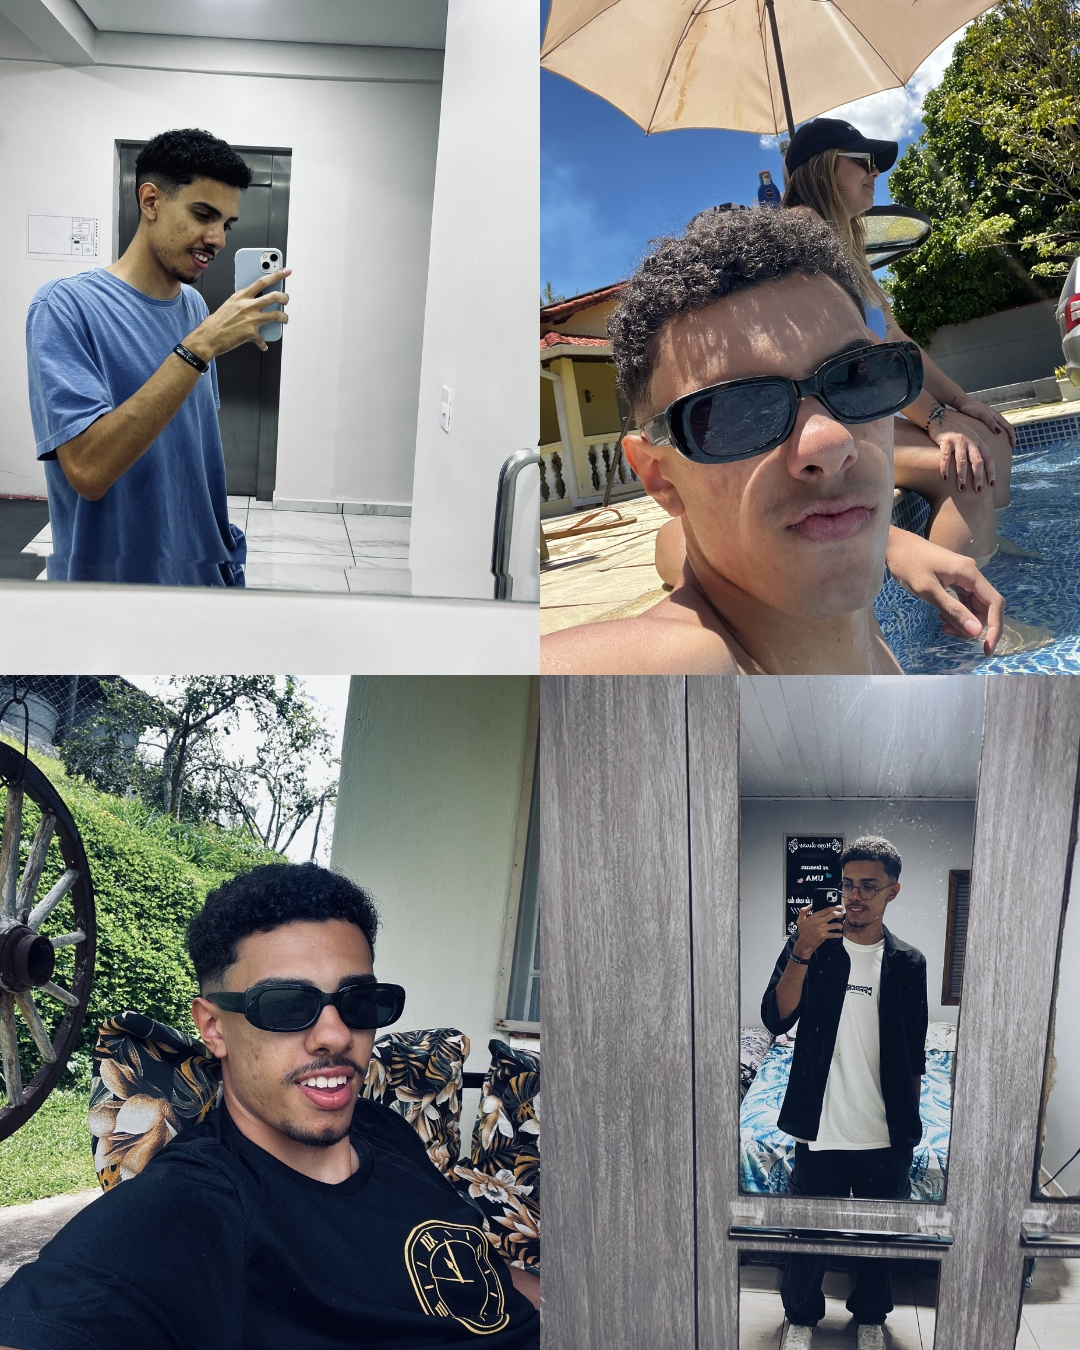
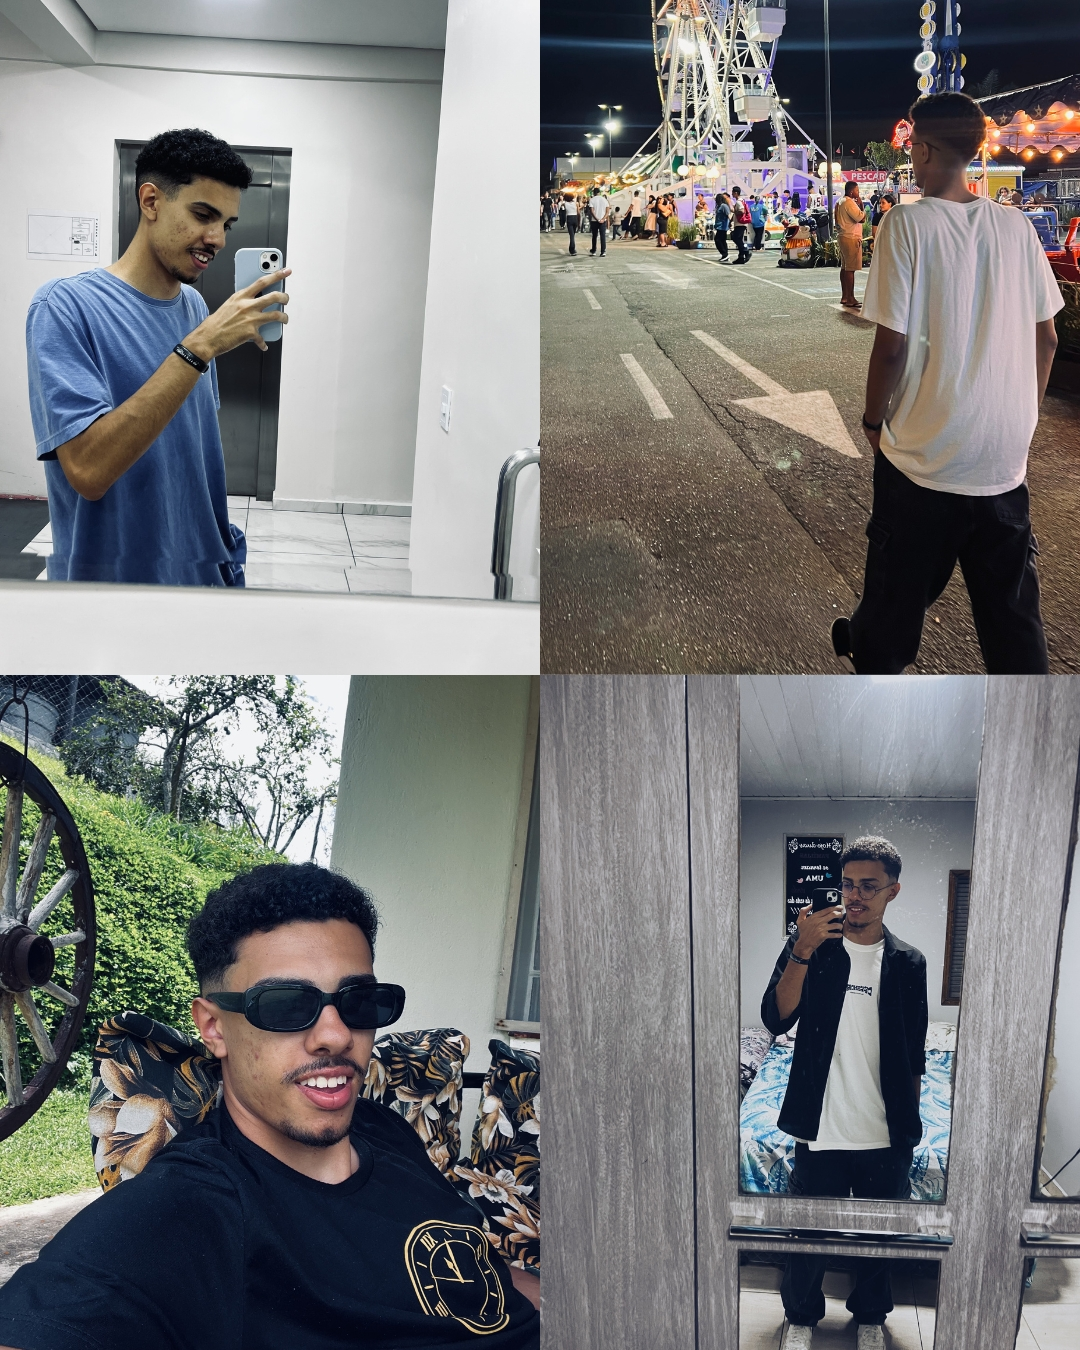
Atualizações 30-03

Changed region(s): [[0.4889, 0.0, 1.0, 0.4978]]

diff --git a/index.html b/index.html
@@ -4,15 +4,15 @@
     <meta charset="UTF-8">
     <meta name="viewport" content="width=device-width, initial-scale=1.0">
 
-    <link rel="preconnect" href="https://fonts.googleapis.com" />
-    <link rel="preconnect" href="https://fonts.gstatic.com" crossorigin />
-    <link href="https://fonts.googleapis.com/css2?family=Montserrat:ital,wght@0,100..900;1,100..900&display=swap" rel="stylesheet">
-    <link href="https://fonts.googleapis.com/css2?family=Space+Grotesk:wght@300..700&display=swap" rel="stylesheet"> 
+    <link rel="preconnect" href="https://fonts.googleapis.com" /> <!-- Receber Google Fonts -->
+    <link rel="preconnect" href="https://fonts.gstatic.com" crossorigin /> <!-- Receber Google Fonts -->
+    <link href="https://fonts.googleapis.com/css2?family=Montserrat:ital,wght@0,100..900;1,100..900&display=swap" rel="stylesheet"> <!-- Fonte Montserrat -->
+    <link href="https://fonts.googleapis.com/css2?family=Space+Grotesk:wght@300..700&display=swap" rel="stylesheet"> <!-- Fonte Space Grotesk -->
 
-    <link rel="stylesheet" href="https://cdnjs.cloudflare.com/ajax/libs/font-awesome/6.5.1/css/all.min.css" />
-    <link rel="stylesheet" type='text/css' href="https://cdn.jsdelivr.net/gh/devicons/devicon@latest/devicon.min.css" />
+    <link rel="stylesheet" href="https://cdnjs.cloudflare.com/ajax/libs/font-awesome/6.5.1/css/all.min.css" /> <!-- Icons -->
+    <link rel="stylesheet" type='text/css' href="https://cdn.jsdelivr.net/gh/devicons/devicon@latest/devicon.min.css" /> <!-- Icons -->
 
-    <script src="https://cdn.jsdelivr.net/particles.js/2.0.0/particles.min.js"></script>
+    <script src="https://cdn.jsdelivr.net/particles.js/2.0.0/particles.min.js"></script> <!-- Particles JS -->
 
     <link rel="stylesheet" href="styles/style.css">
 
@@ -21,6 +21,7 @@
 <body>
     <div id="particles-js"></div>
 
+    <!-- Header -->
     <header>
         <nav>
             <h1>Console.log(Kauã)</h1>
@@ -35,7 +36,9 @@
             <p>Hello World, estão prontos para conhecer mais sobre mim?</p>
         </div>
     </header>
+    <!-- Fim Header -->
 
+    <!-- Tela Inicial -->
     <section id="home">
         <div class="apresentation">
             <div class="layout">
@@ -57,14 +60,16 @@
             </div>
         </div>
     </section>
+    <!-- Fim Tela Inicial -->
 
+    <!-- Tópicos do Site -->
     <section id="topics">
         <h1>Tópicos Importantes</h1>
         <div class="cards">
             <div class="card-content">
                 <a href="#">
                     <div class="image-card">
-                        <img src="assets/foto-topicos.jpg" alt="Minha foto">
+                        <img src="assets/foto-sobre mim.jpg" alt="Minha foto">
                     </div>
                     <h2>Sobre mim</h2>
                 </a>
@@ -72,7 +77,7 @@
             <div class="card-content">
                 <a href="#">
                     <div class="image-card">
-                        <img src="assets/foto-topicos.jpg" alt="Minha foto">
+                        <img src="assets/foto-cultura.JPG" alt="Foto Projeto Sola">
                     </div>
                     <h2>Cultura</h2>
                 </a>
@@ -80,13 +85,78 @@
             <div class="card-content">
                 <a href="#">
                     <div class="image-card">
-                        <img src="assets/foto-topicos.jpg" alt="Minha foto">
+                        <img src="assets/foto-esportes.jpg" alt="Foto esportes">
                     </div>
                     <h2>Esportes</h2>
                 </a>
             </div>
         </div>
     </section>
+    <!-- Fim Tópicos do Site -->
+
+    <section id="pictures">
+        <div class="galeria">
+            <div class="linha-galeria">
+                <div class="img-galeria">
+                    <img src="/assets/galeria-1.jpg" alt="Fotos Galeria">
+                </div>
+                <div class="img-galeria">
+                    <img src="/assets/galeria-2.jpg" alt="Fotos Galeria">
+                </div>
+                <div class="img-galeria">
+                    <img src="/assets/galeria-3.jpg" alt="Fotos Galeria">
+                </div>
+                <div class="img-galeria">
+                    <img src="/assets/galeria-4.jpg" alt="Fotos Galeria">
+                </div>
+                <div class="img-galeria">
+                    <img src="/assets/galeria-5.jpg" alt="Fotos Galeria">
+                </div>
+                <div class="img-galeria">
+                    <img src="/assets/galeria-6.jpg" alt="Fotos Galeria">
+                </div>
+            </div>
+
+            <div class="linha-galeria">
+                <div class="img-galeria">
+                    <img src="/assets/galeria-7.jpg" alt="Fotos Galeria">
+                </div>
+                <div class="img-galeria">
+                    <img src="/assets/galeria-8.jpg" alt="Fotos Galeria">
+                </div>
+                <div class="img-galeria">
+                    <img src="/assets/galeria-9.jpg" alt="Fotos Galeria">
+                </div>
+                <div class="img-galeria">
+                    <img src="/assets/galeria-10.jpg" alt="Fotos Galeria">
+                </div>
+                <div class="img-galeria">
+                    <img src="/assets/galeria-11.jpg" alt="Fotos Galeria">
+                </div>
+                <div class="img-galeria">
+                    <img src="/assets/galeria-12.jpg" alt="Fotos Galeria">
+                </div>
+            </div>
+    </section>
+
+    <footer>
+        <div class="container-footer">
+            <div class="footer-content">
+                <div class="footer-info">
+                    <h3>Console.log(Kauã)</h3>
+                    <p>Conhecendo mais sobre Kauã Henrique!</p>
+                    <div class="social-links">
+                        <a href="https://github.com/devKauaHenrique" target="blank"><i class="fab fa-github"></i></a>
+                        <a href="https://www.linkedin.com/in/kau%C3%A3-henrique-78259a259/" target="blank"><i class="fab fa-linkedin"></i></a>
+                        <a href="https://www.instagram.com/kaua.dev?igsh=MXB5NGlqczhnNXZ5cA==" target="blank"><i class="fab fa-instagram"></i></a>
+                    </div>
+                </div>
+            </div>
+            <div class="footer-bottom">
+                <p>&copy; 2026 Kauã Henrique. Todos os direitos reservados.</p>
+            </div>
+        </div>
+    </footer>
 
     <script src="scripts/particles.js"></script>
 </body>

diff --git a/styles/style.css b/styles/style.css
@@ -1,3 +1,4 @@
+/* Configs Padrões */
 *{
     box-sizing: border-box;
     padding: 0;
@@ -6,6 +7,7 @@
     list-style: none;
 }
 
+/* Animação na transição de tela */
 html{
     scroll-behavior: smooth;
 }
@@ -13,6 +15,7 @@ html{
 /* Cores: */
 /* Azul 1 -> #000080 */
 /* Azul 2 -> #1d0eb1 */
+/* Branco -> #fff */
 
 :root{
     --darkness-blue: #000080;
@@ -68,7 +71,7 @@ nav li a{
     color: var(--darkness-blue);
     font-family: "Montserrat", sans-serif;
     text-align: center;
-    font-weight: bold;
+    font-weight: 600;
     padding: 0.5rem;
     height: 30px;
 }
@@ -196,15 +199,16 @@ section#topics h1{
 
 .cards{
     display: flex;
+    justify-content: center;
+    align-items: flex-start;
     gap: 4rem;
 }
 
 .card-content{
     display: flex;
-    flex: wrap;
     flex-direction: column;
     align-items: center;
-    max-width: 300px;
+    width: 300px;
     background-color: var(--darkness-blue);
     color: var(--white);
     border-radius: 10px;
@@ -219,7 +223,7 @@ section#topics h1{
 .card-content h2{
     color: var(--white);
     text-align: center;
-    padding: 12px;
+    padding: 1rem;
     font-family: "Montserrat", sans-serif;
     font-optical-sizing: auto;
     font-weight: normal;
@@ -227,11 +231,17 @@ section#topics h1{
 }
 
 .image-card{
+    width: 100%;
+    height: 400px;
+    aspect-ratio: 1 / 1;
     overflow: hidden;
 }
 
 .image-card img{
     width: 100%;
+    height: 100%;
+    object-fit: cover;
+    object-position: center;
     border-radius: 10px 10px 0 0;
     transition: transform 0.8s;
 }
@@ -239,4 +249,115 @@ section#topics h1{
 .image-card img:hover{
     transform: scale(1.1);
     z-index: 1;
+}
+
+section#pictures{
+    position: relative;
+    z-index: 1;
+    display: flex;
+    padding: 4.5rem;
+    align-items: center;
+    justify-content: center;
+    width: 100%;
+}
+
+div.galeria{
+    display: flex;
+    flex-direction: column;
+    gap: 6px;
+    background-color: var(--white);
+    padding: 6px;
+    border-radius: 0.5rem;
+}
+
+div.linha-galeria{
+    display: flex;
+    gap: 6px;
+}
+
+div.img-galeria{
+    display: flex;
+    flex-direction: column;
+    background-color: white;
+    overflow: hidden;
+    width: 100%;
+    height: 270px;
+}
+
+.img-galeria img{
+    width: 100%;
+    height: 100%;
+    object-fit: cover;
+    transition: transform 0.8s;
+}
+
+.img-galeria img:hover{
+    transform: scale(1.2);
+    z-index: 1;
+}
+
+footer{
+    background-color: var(--white);
+    color: var(--darkness-blue);
+    margin-top: 4rem;
+    position: relative;
+    z-index: 1;
+}
+
+.container-footer{
+    width: 100%;
+    margin: 0 auto;
+    padding: 2rem 8rem;
+}
+
+.footer-content{
+    display: flex;
+    justify-content: space-between;
+    align-items: center;
+    margin-bottom: 2rem;
+}
+
+.footer-info h3{
+    font-family: "Space Grotesk", sans-serif;
+    font-optical-sizing: auto;
+    font-weight: weight;
+    font-style: normal;
+    font-size: 24px;
+    margin-bottom: 8px;
+}
+
+.footer-info p{
+    font-family: "Montserrat", sans-serif;
+    font-optical-sizing: auto;
+    font-weight: normal;
+    font-style: normal;
+}
+
+.social-links{
+    display: flex;
+    gap: 1rem;
+    margin-top: 1rem;
+}
+
+.social-links a{
+    color: var(--darkness-blue);
+    font-size: 1.5rem;
+    transition: color 0.3s ease;
+}
+
+.social-links a:hover{
+    color: var(--lightness-blue);
+}
+
+.footer-bottom{
+    text-align: center;
+    padding-top: 2rem;
+    border-top: 1px solid var(--lightness-blue);
+}
+
+.footer-bottom p{
+    font-family: "Montserrat", sans-serif;
+    font-optical-sizing: auto;
+    font-weight: normal;
+    font-style: normal;
 }
